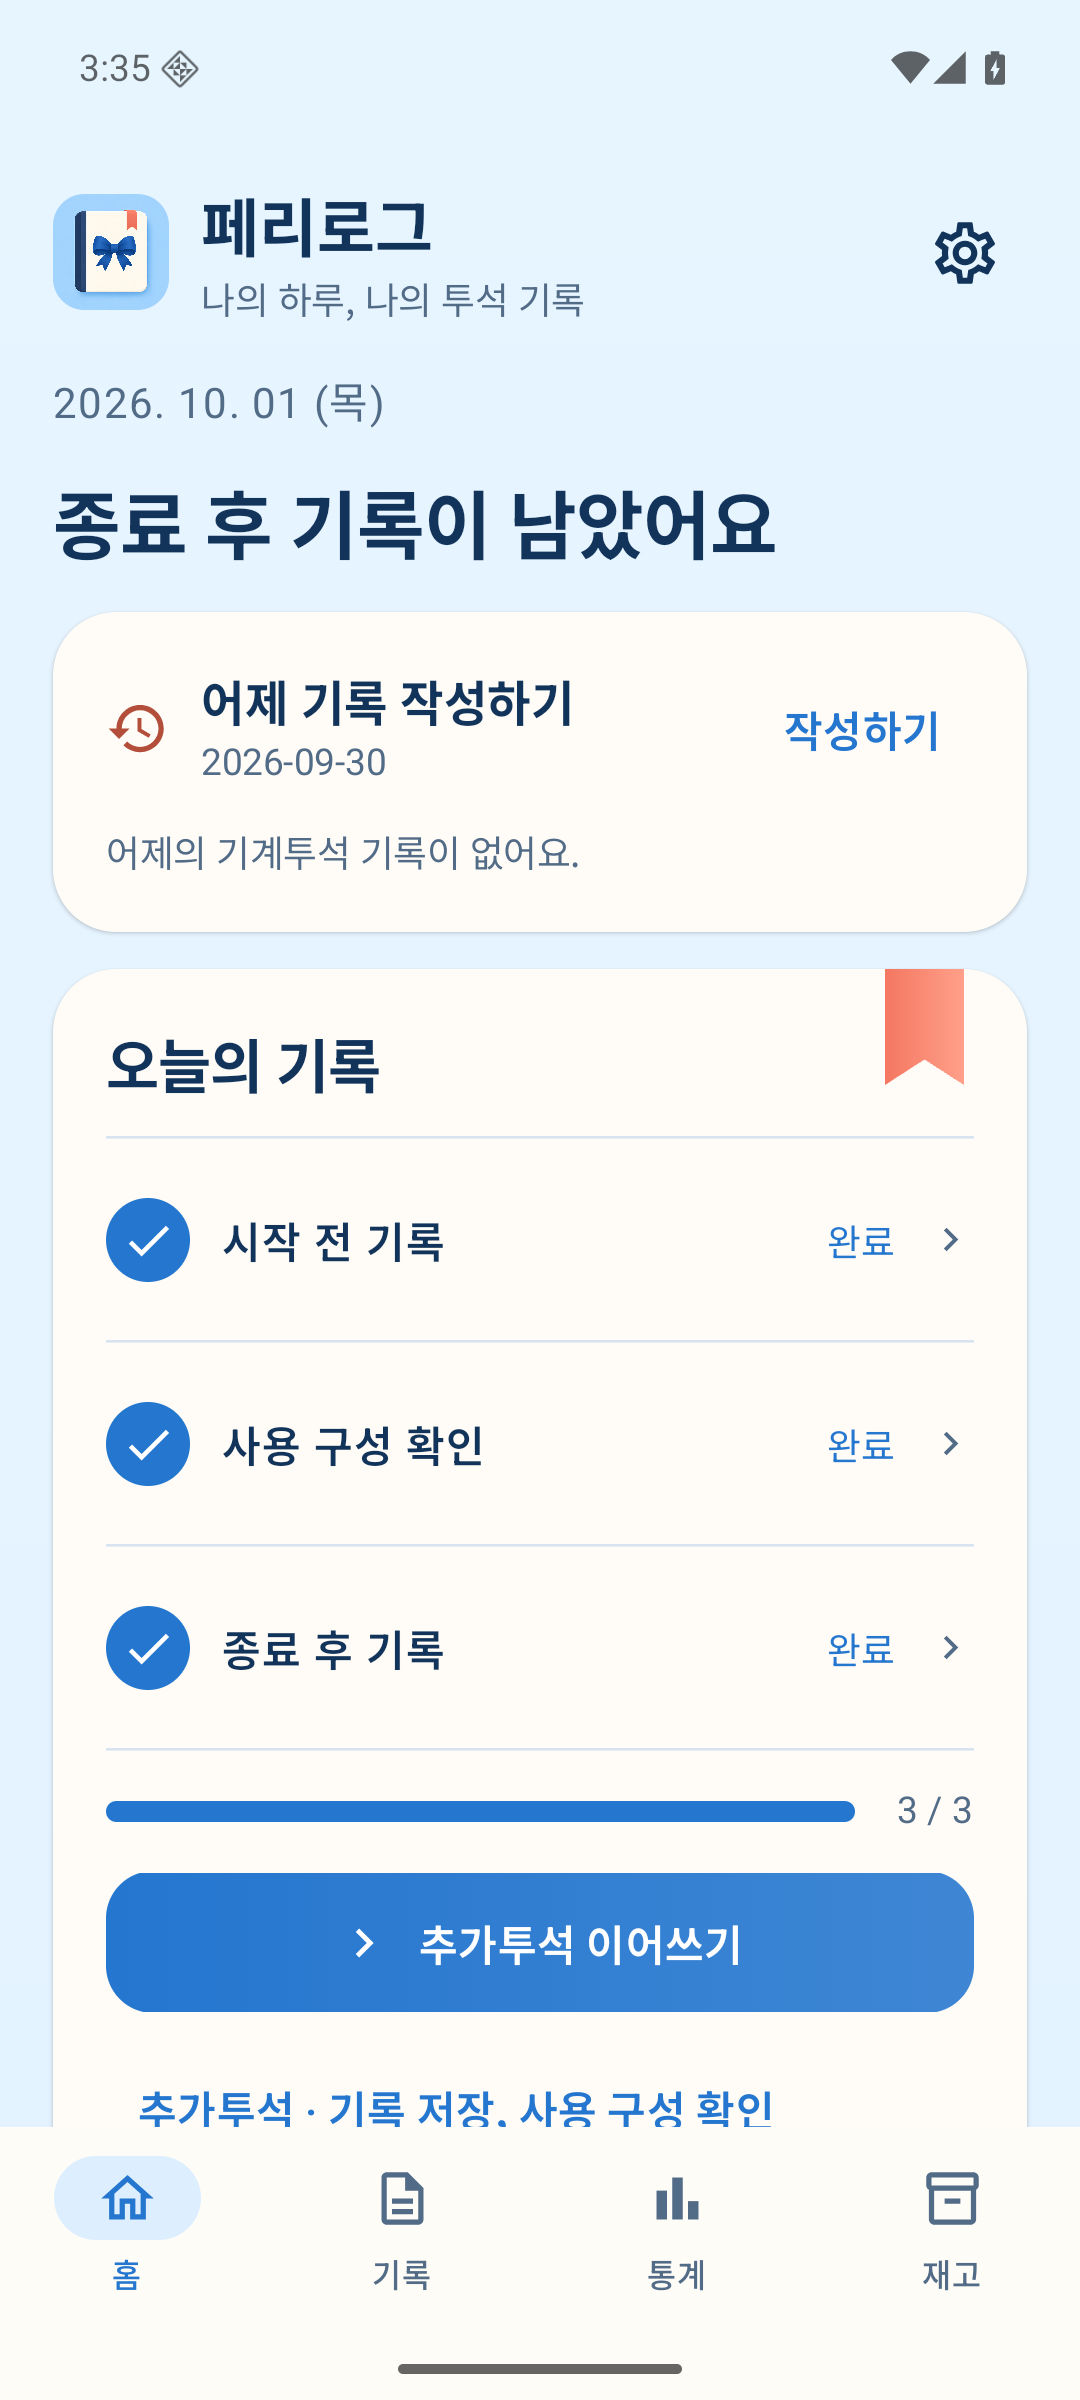
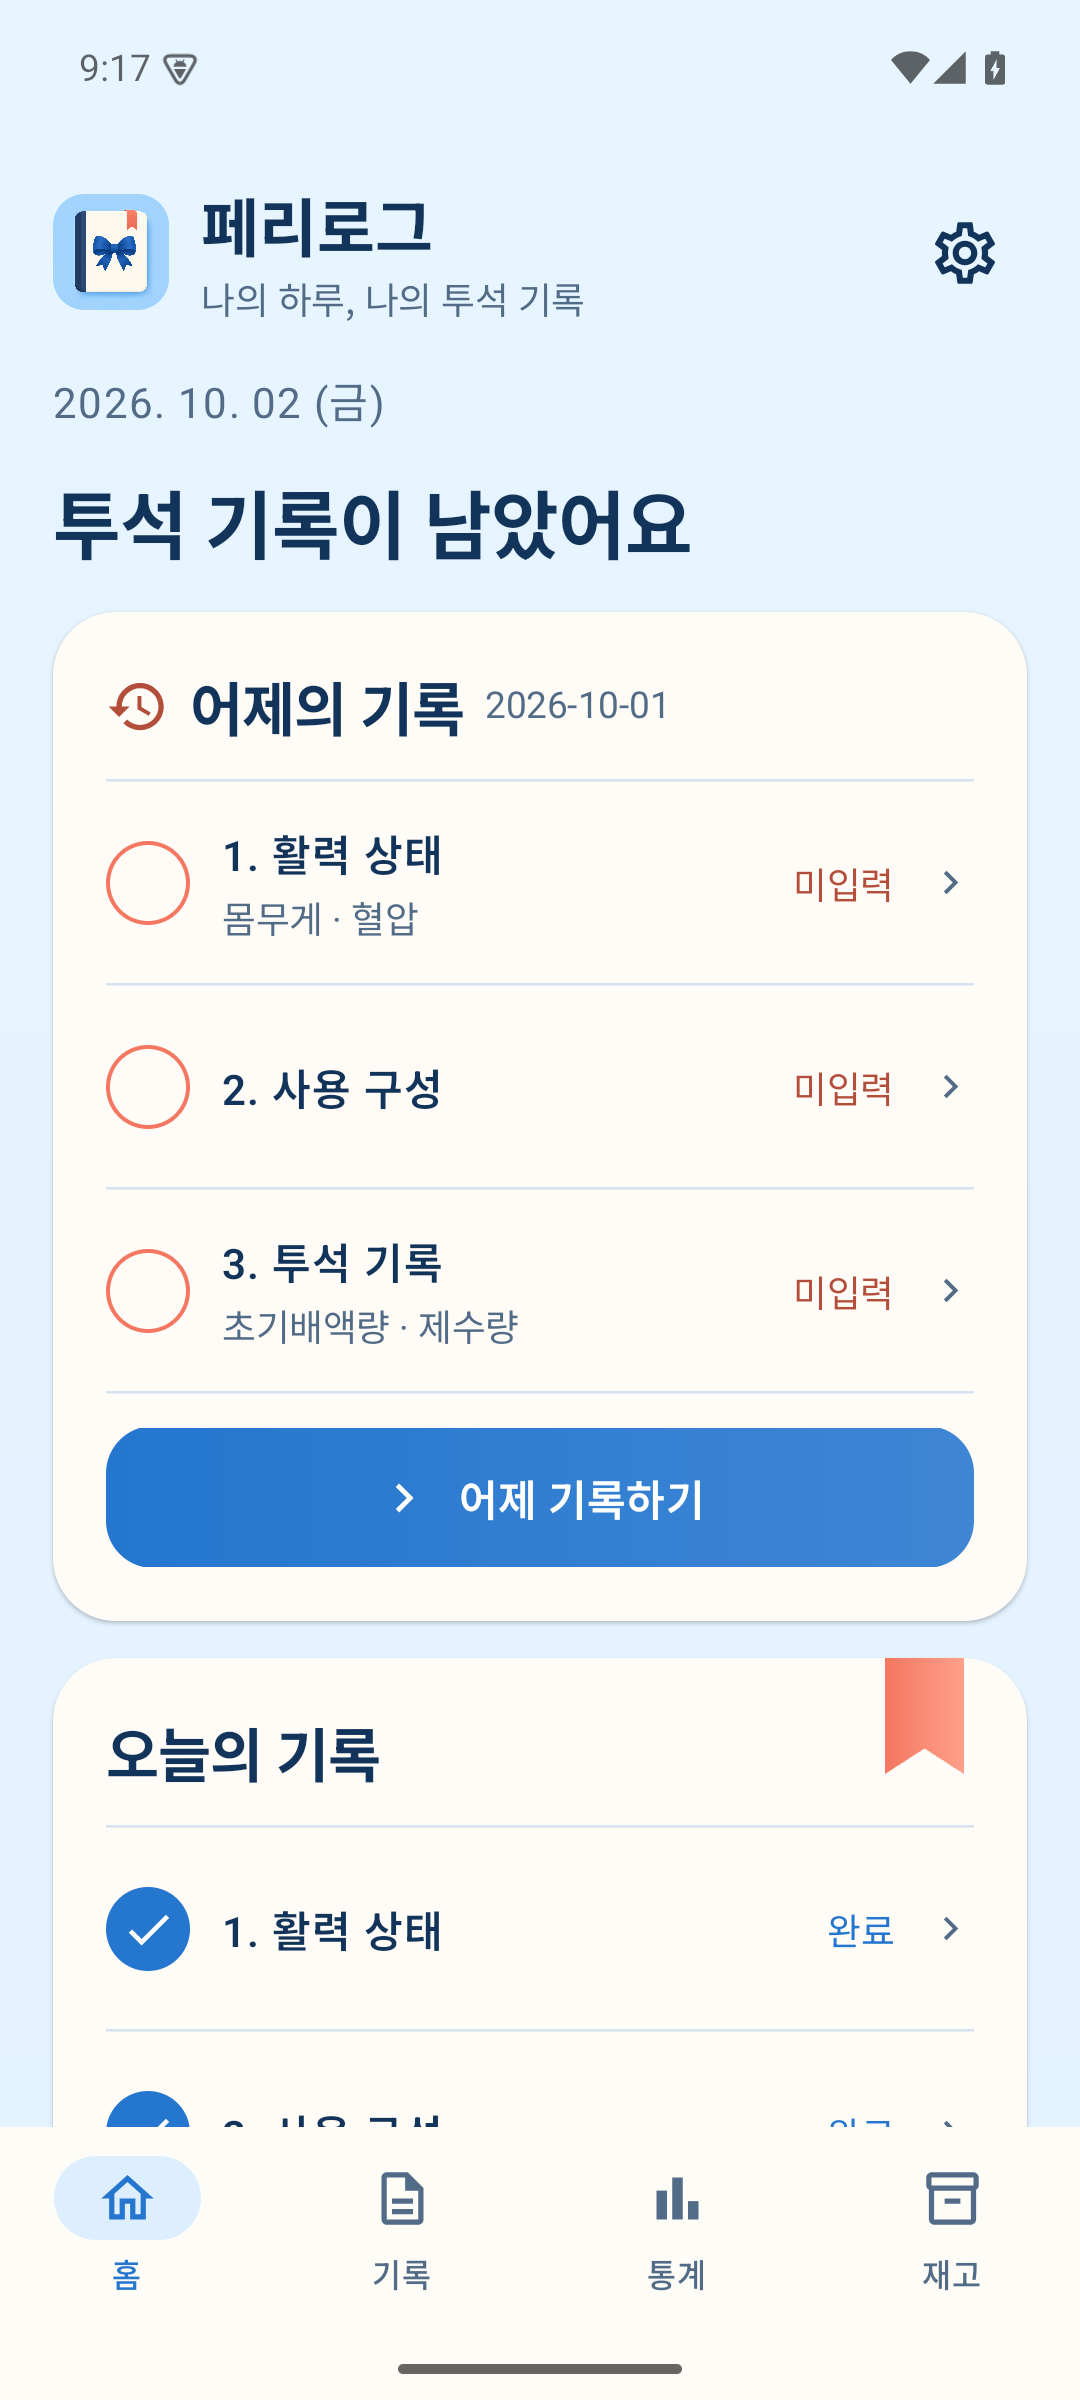
docs: publish v1.0.3 release notes and refreshed screenshots

diff --git a/readme/개발-안내.md b/readme/개발-안내.md
@@ -1,11 +1,11 @@
 # 개발 안내
 
-페리로그 v1.0.3 소스는 Galaxy Z 플립7을 우선 대상으로 만든 개인용 복막투석 기록 앱입니다. 외부 API, 로그인, 인터넷 권한 없이 기기 내부에서 동작합니다. Android 12 이상을 지원합니다.
+페리로그 v1.0.3은 Galaxy Z 플립7을 우선 대상으로 만든 개인용 복막투석 기록 앱입니다. 외부 API, 로그인, 인터넷 권한 없이 기기 내부에서 동작합니다. Android 12 이상을 지원합니다.
 
 ## 기능
 
 - 시작 전 몸무게·혈압, 종료 후 초기배액량·기계 제수량 입력과 총 제수량 자동 계산
-- 이전 실제 사용 구성 불러오기, 템플릿, 숫자 증감, 과거 날짜 입력, 초안 보관
+- 이전 실제 사용 구성 불러오기, 구성 이름·대표 색상, 과거 날짜 입력, 초안 보관
 - 추가투석은 물품 사용만으로 저장하며 배액량 또는 배액무게를 선택 기록
 - 품목 색상, EA 재고, 날짜별 일괄 입고, 사용기한, 사용·입고 취소, 현재 재고 확인
 - 오늘·어제 미작성 안내와 완료 표현, 기록 목록·달력·기간별 표, 기간별 그래프·표
@@ -21,7 +21,7 @@ JDK 17, Android SDK 36, Build Tools 36, Gradle Wrapper 8.13을 사용합니다. 
 
 개발용 APK: `app/build/outputs/apk/debug/app-debug.apk` (`com.poyal.perilog.debug`).
 
-개인 설치용 APK를 만들 때는 최초 한 번만 서명 키를 생성합니다.
+처음 앱을 배포할 때만 서명 키를 생성합니다. 이미 배포한 앱을 다른 컴퓨터에서 빌드할 때는 기존 `.signing/` 폴더와 `signing.properties`를 프로젝트 루트에 복원하고 `assembleRelease`만 실행합니다. `.signing/`은 숨김 폴더입니다. SDK와 JDK 경로는 해당 컴퓨터에 맞춰 설정합니다.
 
 ```sh
 ./scripts/create-signing.sh
@@ -30,7 +30,7 @@ JDK 17, Android SDK 36, Build Tools 36, Gradle Wrapper 8.13을 사용합니다. 
 
 설치용 APK: `app/build/outputs/apk/release/app-release.apk` (`com.poyal.perilog`). `.signing/`과 `signing.properties`는 버전 관리에서 제외합니다. **두 항목을 별도로 안전하게 보관하고 앱 업데이트에 같은 키를 사용해야 합니다.** 기존 키를 덮어쓰지 않습니다.
 
-v1.0.3의 버전 코드는 4입니다. 이번 작업은 소스 푸시와 GitHub Actions 검사까지 진행하며, 설치용 APK는 기존 서명 키가 있는 환경에서 빌드합니다. 기존 앱에 덮어 설치하려면 같은 키를 사용하세요. Room 스키마 1→2→3 이전 검사가 기존 기록·사용 내역·초안·구성을 확인합니다.
+v1.0.3의 버전 코드는 4입니다. 기존 앱과 같은 키로 서명한 APK를 배포합니다. Room 스키마 1→2→3 이전 검사가 기존 기록·사용 내역·초안·구성을 확인합니다.
 
 에뮬레이터나 개발용 Android 기기가 연결된 경우:
 

diff --git a/readme/검증-기록.md b/readme/검증-기록.md
@@ -1,21 +1,26 @@
 # 페리로그 검증 기록
 
-검증일: 2026-10-01. 예시 자료와 개발용 에뮬레이터로 검사했습니다. APK 직접 설치 버전입니다. v1.0.2의 Android 15 호환 수정·전체 CI·업데이트 설치·공개 배포 파일을 확인했습니다. 이전 버전의 검증 이력도 아래에 남깁니다.
+최근 검증일: 2026-10-02. 예시 자료와 개발용 에뮬레이터로 검사했습니다. APK 직접 설치 버전입니다. 이전 버전의 검증 이력도 아래에 남깁니다.
 
-## v1.0.3 화면·구성·통계 개편 소스 검증
+## v1.0.3 화면·구성·통계 개편
 
-버전 코드는 4입니다. 이번 범위는 main 소스 푸시와 GitHub Actions 검사까지이며, 서명 APK와 릴리즈 태그는 기존 서명 키가 있는 환경에서 별도로 준비합니다.
+버전 코드는 4, 소스 커밋은 `90748cb`입니다. 기존 릴리즈와 같은 키로 서명하고 Android 15 / API 35의 별도 에뮬레이터에서 업데이트 설치를 확인했습니다.
 
 | 검사 | 결과 |
 | --- | --- |
 | 계산·저장소 단위 검사 | 29개 통과, 실패 0 |
-| Lint | 오류 0 |
+| Lint | 오류 0, 경고 20 |
 | Room 1→3 이전 | API 31·35에서 기록·사용 내역·초안·품목·사용 구성과 계산값 보존 통과 |
 | 수동 UI | 샘플 데이터로 기록 메뉴·구성 상세·대표 색상 선택·세로 라인차트·어제 미입력 카드 확인 |
 | 샘플 반복 준비 | 기존 기록·초안·수정값을 보존하고 중복 추가하지 않음 |
-| GitHub Actions | main 푸시 후 단위·Lint·기본/큰 글씨 E2E·프로세스 복구 실행 |
+| GitHub Actions | [전체 검사](https://github.com/poyal/perilog/actions/runs/36872414699) 성공: 단위·Lint·기본/큰 글씨 E2E·프로세스 복구 |
+| 서명 APK | v1.0.2와 인증서 동일, APK 서명 검증 통과 |
+| v1.0.2→v1.0.3 설치 | 가상 63.2kg 기록을 저장한 기존 앱에 덮어 설치 성공. DB 1→3 이전 후 기존 행과 필드 값 보존 |
+| 문서 화면 | API 35에서 v1.0.3 기본 23장과 서명 APK의 가로·1.5배 글씨·키보드 1장 |
 
-현재 README의 기존 화면 캡처와 공개 다운로드는 v1.0.2 배포 자료입니다. v1.0.3 APK 게시 시 화면과 다운로드 링크를 갱신합니다.
[1 lines of base64/hex data omitted]
+
+로컬 결과: `.tools/verify-v103.log`, `.tools/upgrade-v103/`, `.tools/capture-v103.log`. 업데이트 비교는 기존 컬럼 값을 모두 비교하고 새 컬럼의 기본값 및 DB 버전 3을 확인했습니다. 가로 키보드 화면에서는 입력값·저장 버튼·키보드 표시와 하단 탭 숨김을 확인했습니다.
 
 ## v1.0.2 Android 15 호환 수정
 

diff --git a/readme/releases/v1.0.3.md b/readme/releases/v1.0.3.md
@@ -1,4 +1,4 @@
-# 페리로그 v1.0.3 준비 내용
+# 페리로그 v1.0.3
 
 기록 입력과 조회 화면을 간결하게 정리하고 사용 구성 이름과 대표 색상으로 사용 내역을 구분합니다. 버전 코드는 4입니다.
 
@@ -12,4 +12,19 @@
 
 Room 스키마는 1→2→3으로 이전하여 구성 이름·색상 정보를 추가합니다. 기존 기록·사용 내역·재고·초안과 이전 JSON 백업을 유지합니다. 예전 기록은 품목과 수량이 같은 등록 구성의 이름을 표시합니다.
 
-현재는 소스와 검증 준비 단계입니다. APK·릴리즈 태그는 게시하지 않았습니다. 기존 서명 키가 있는 환경에서 서명 APK를 빌드하고 설치 및 데이터 유지 검증 후 게시합니다.
+## 설치
+
+`perilog-1.0.3.apk`를 내려받아 기존 앱 위에 설치하세요. v1.0.0~v1.0.2와 같은 앱 ID와 서명 키를 사용하므로 앱을 삭제할 필요가 없습니다. Android 12 이상을 지원합니다.
+
+## 검증
+
+- [GitHub Actions](https://github.com/poyal/perilog/actions/runs/36872414699)의 단위·Lint·기본/큰 글씨 E2E·프로세스 복구 검사가 모두 통과했습니다.
+- 로컬 단위·저장소 검사 29개 통과, Lint 오류 0. API 31·35에서 Room 1→3 이전 후 기록·사용 내역·초안·구성 보존을 확인했습니다.
+- Android 15의 v1.0.2 서명 APK에 가상 기록을 저장하고 v1.0.3으로 덮어 설치했습니다. DB 버전이 1→3으로 올라가고 기존 행과 필드 값이 보존됨을 확인했습니다.
+- APK 서명이 기존 릴리즈와 일치합니다. 버전 코드는 4이며 JSON 백업 형식은 유지합니다.
+
+## 사용 설명과 화면
+
+[사용자 매뉴얼](https://github.com/poyal/perilog#readme)과 첨부 스크린샷 ZIP의 24장을 v1.0.3 화면으로 갱신했습니다. Android 15 에뮬레이터에서 예시 자료로 촬영했으며 가로·큰 글씨·키보드 화면은 배포 APK를 사용했습니다.
+
+Galaxy Z 플립7 실물의 접기·펼치기, 삼성 키보드·파일 선택기·생체 인증은 별도 확인 대상입니다.

diff --git a/readme/README.md b/readme/README.md
@@ -6,8 +6,8 @@
 - [계획 및 결정 이력](plan.md)
 - [구현 검증 기록](검증-기록.md)
 - [v1.0.0 릴리즈 노트](releases/v1.0.0.md)
-- [v1.0.3 소스 준비 내용](releases/v1.0.3.md)
-- [실제 실행 화면](screenshots/): Android 16 에뮬레이터, 예시 데이터
+- [v1.0.3 변경 내용](releases/v1.0.3.md)
+- [실제 실행 화면](screenshots/): v1.0.3, Android 15 에뮬레이터, 예시 데이터
 - [문서 캡처 코드](capture/DocumentationCapture.kt)
 
 화면과 아이콘의 초기 디자인 시안은 [design 폴더](../design/)에 있습니다.
